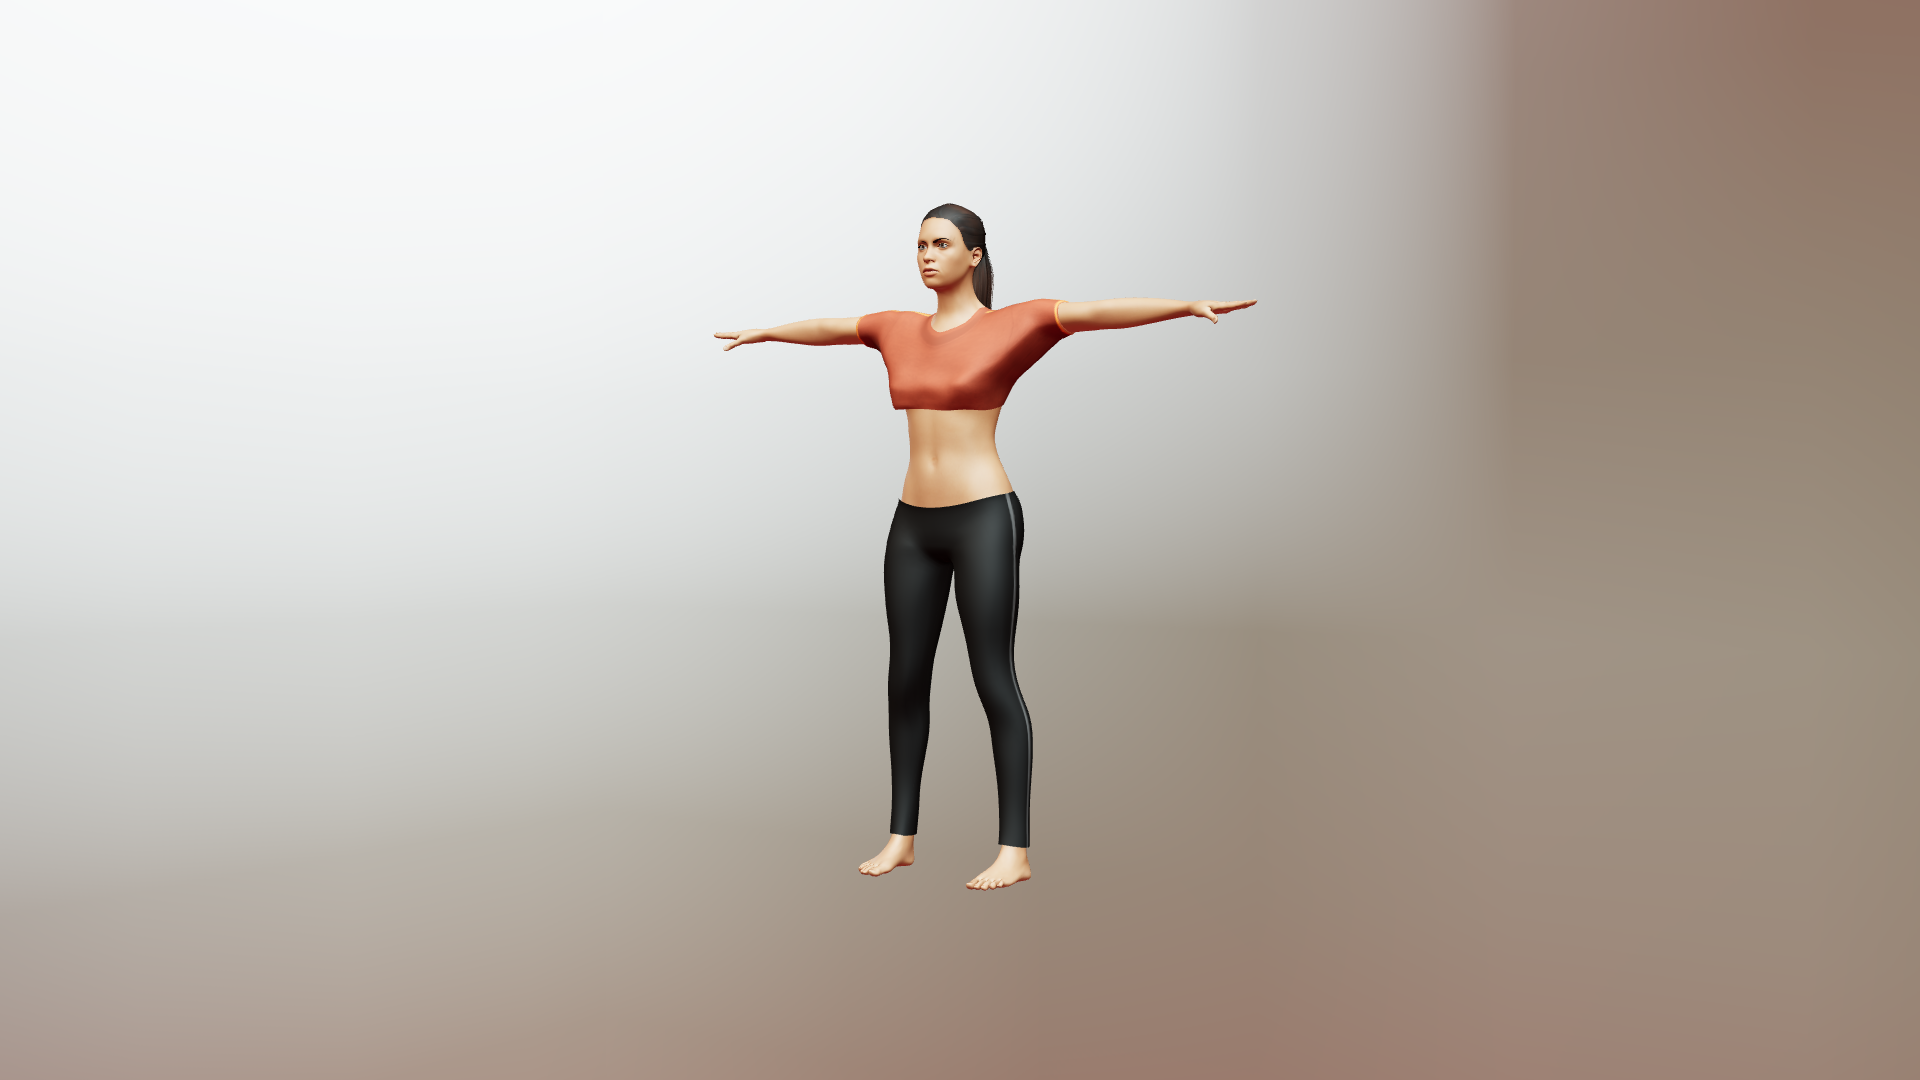
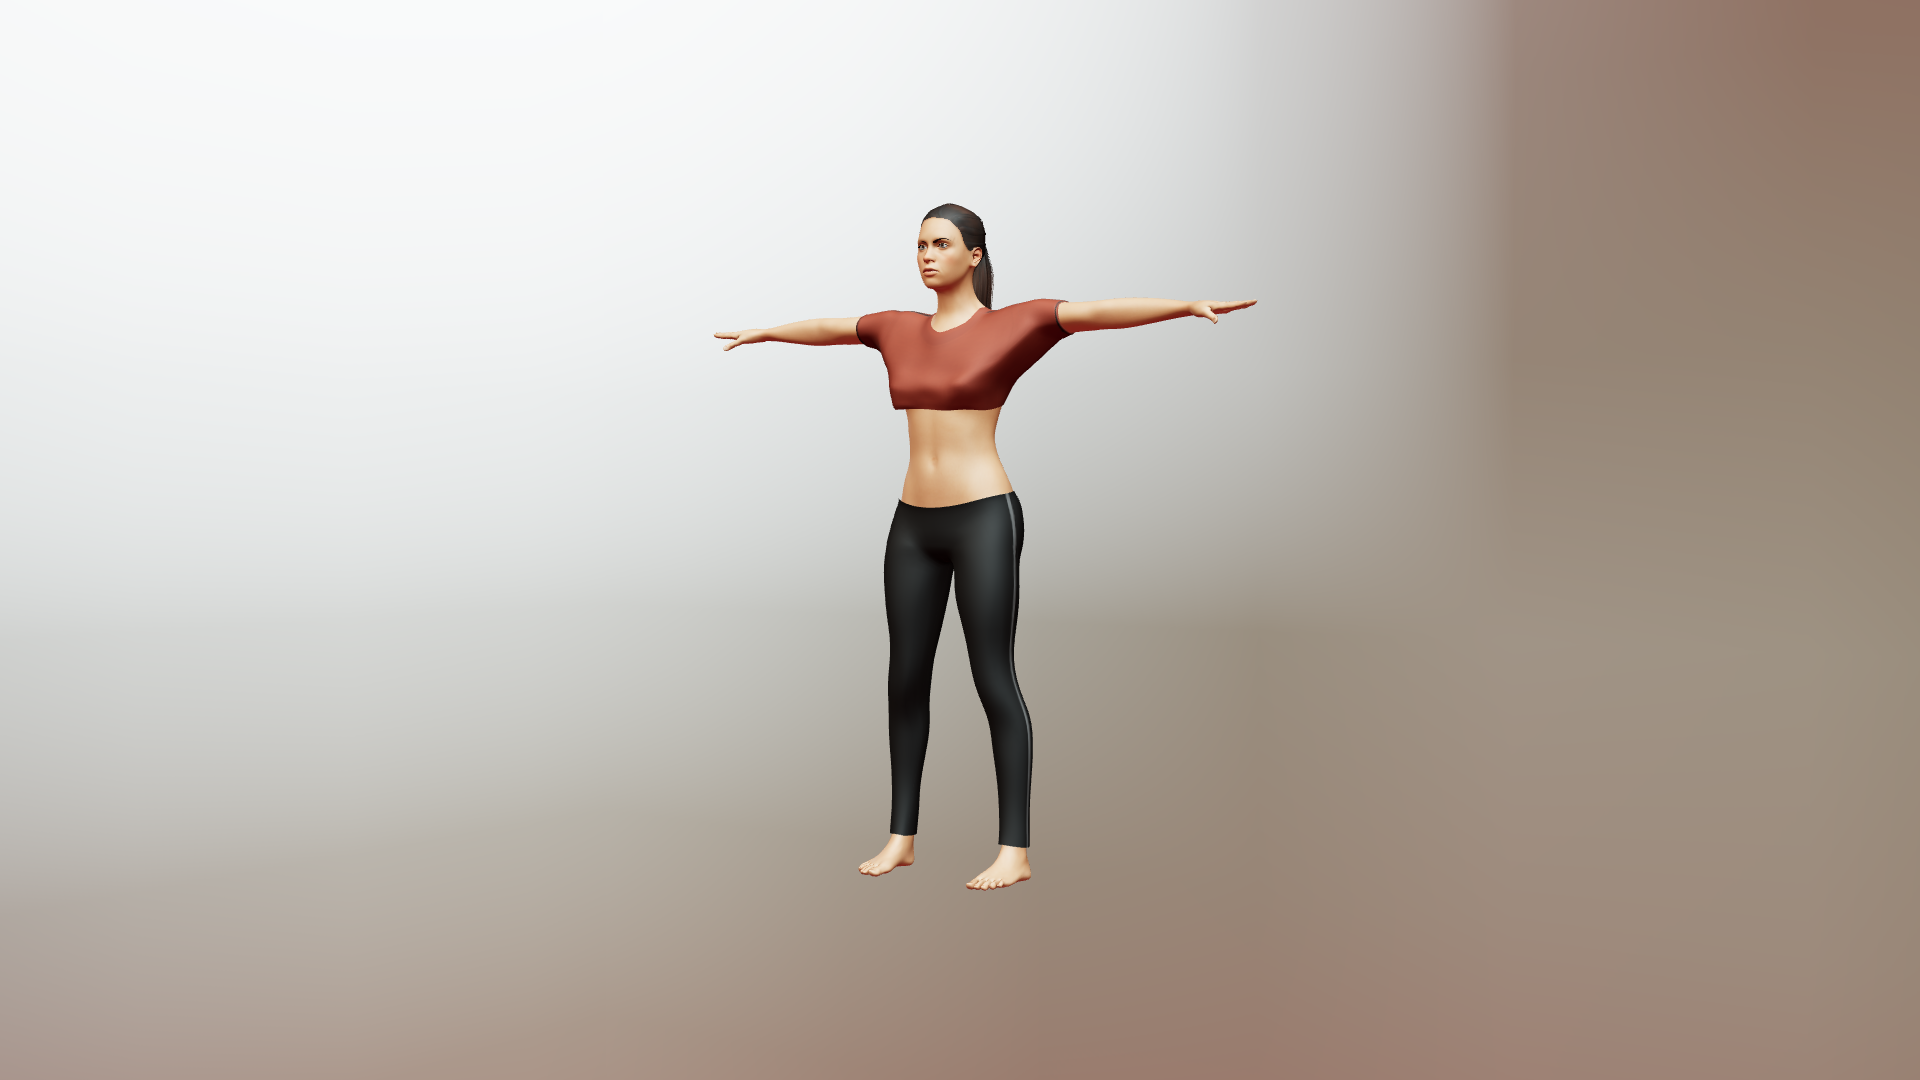
Weigh-in #10 snapshot: claude
Self-submitted: passes every automated check. Realism awaits the owner's score. Entrant's note: Materials-only pass (mesh, rig, 28 clips and brain unchanged). Skin: new generated 2048 px roughness map instead of a single 0.48 value: about 0.52 on the body, glossier T-zone (down to about 0.36) an

Changed region(s): [[0.4375, 0.275, 0.5625, 0.3972]]

diff --git a/competition/entries/claude/source/02_materials.py b/competition/entries/claude/source/02_materials.py
@@ -1,11 +1,12 @@
 """Stage 2: realism pass on materials for CLAUDE. Opens .work/claude_human.blend, writes .work/claude_materials.blend.
 - Skin: diffuse graded from the CC0 'middleage caucasian female' map toward a warm olive tone; a procedurally generated,
-  tiling pore/micro-detail normal map (made here, see make_pore_normal); roughness 0.48.
+  tiling pore/micro-detail normal map (made here, see make_pore_normal); a blood-flush tint on cheeks, nose tip and
+  ears and a roughness map (T-zone and lips glossier), both placed from face landmarks found in the rest mesh.
 - Eyes: CC0 brown iris texture with its red cast shifted to a dark brown; clearcoat for a wet cornea.
 - Hair, brows: darkened to near-black brown, alpha kept.
 - Scalp and brow shading: the hair cap and brow cards are projected onto the skin texture (paint_under_cards), so
   the skin under the hairline and brows is dark instead of bare skin showing through the cutout gaps.
-- Sportsuit: blue top recoloured to terracotta, grey leggings to charcoal black.
+- Sportsuit: blue top recoloured to an even terracotta with charcoal piping, grey leggings to charcoal black.
 """
 import colorsys
 import os
@@ -83,6 +84,85 @@ def make_pore_normal(size=1024, seed=7):
     return img
 
 
+def position_map(obj, h, w):
+    """Rest-pose 3D position of every skin texel of the visible body (helper shells skipped), by rasterising the
+    mesh's UV triangles. Returns an (h, w, 3) array and an (h, w) coverage mask."""
+    verts, tris, uvs = rest_mesh(obj)
+    gi = obj.vertex_groups["body"].index
+    body = {v.index for v in obj.data.vertices if any(g.group == gi and g.weight > 0.5 for g in v.groups)}
+    pos = np.zeros((h, w, 3), np.float32)
+    hit = np.zeros((h, w), bool)
+    for t, tuv in zip(tris, uvs):
+        if not all(k in body for k in t):
+            continue
+        p = np.array([tuple(verts[k]) for k in t], np.float32)
+        px = np.array([[q.x * w - 0.5, q.y * h - 0.5] for q in tuv])
+        x0, y0 = np.maximum(np.floor(px.min(0)).astype(int), 0)
+        x1, y1 = np.minimum(np.ceil(px.max(0)).astype(int), (w - 1, h - 1))
+        if x1 < x0 or y1 < y0:
+            continue
+        (ax, ay), (bx, by), (cx, cy) = px
+        den = (by - cy) * (ax - cx) + (cx - bx) * (ay - cy)
+        if abs(den) < 1e-9:
+            continue
+        ys, xs = np.mgrid[y0:y1 + 1, x0:x1 + 1]
+        l0 = ((by - cy) * (xs - cx) + (cx - bx) * (ys - cy)) / den
+        l1 = ((cy - ay) * (xs - cx) + (ax - cx) * (ys - cy)) / den
+        l2 = 1 - l0 - l1
+        m = (l0 >= -0.02) & (l1 >= -0.02) & (l2 >= -0.02)
+        if not m.any():
+            continue
+        lam = np.stack([l0[m], l1[m], l2[m]], -1)
+        pos[ys[m], xs[m]] = lam @ p
+        hit[ys[m], xs[m]] = True
+    return pos, hit
+
+
+def blob(pos, centre, radii):
+    """Smooth ellipsoidal falloff (1 at the centre, 0 past the radii) around a 3D point."""
+    d = ((pos - np.array(centre, np.float32)) / np.array(radii, np.float32)) ** 2
+    return np.clip(1.0 - d.sum(-1), 0, 1) ** 2
+
+
+def skin_regions(pos, hit):
+    """Masks for regional skin variation, placed from the face's own landmarks in the rest pose (MakeHuman faces -Y):
+    the nose tip is the most forward head point, the ears the widest."""
+    head = hit & (pos[..., 2] > pos[..., 2][hit].max() - 0.25)
+    hp = pos[head]
+    nose = hp[hp[:, 1].argmin()]
+    ear = hp[np.abs(hp[:, 0]).argmax()]
+    x_ear, z_ear = abs(ear[0]), ear[2]
+    nx, ny, nz = nose
+    flush = np.zeros(pos.shape[:2], np.float32)
+    for sx in (-1, 1):
+        flush = np.maximum(flush, 0.8 * blob(pos, (sx * 0.042, ny + 0.045, nz + 0.0), (0.028, 0.03, 0.026)))
+        flush = np.maximum(flush, 0.9 * blob(pos, (sx * x_ear, ear[1], z_ear), (0.02, 0.035, 0.045)))
+    flush = np.maximum(flush, blob(pos, (nx, ny + 0.004, nz - 0.002), (0.016, 0.02, 0.016)))
+    # T-zone (forehead centre, nose) is oilier and shinier; lips are glossier still.
+    tzone = np.maximum(blob(pos, (0, ny + 0.06, nz + 0.075), (0.04, 0.05, 0.035)),
+                       blob(pos, (nx, ny + 0.01, nz + 0.02), (0.014, 0.03, 0.04)))
+    lips = blob(pos, (nx, ny + 0.022, nz - 0.042), (0.024, 0.02, 0.011))
+    return flush * head, tzone * head, lips * head
+
+
+def make_skin_roughness(pos, hit, tzone, lips, size):
+    """Roughness map: 0.52 on the body, down to ~0.36 on the T-zone and ~0.3 on the lips, plus a little fine
+    noise so the specular breaks up. Stored in G (glTF metallicRoughness)."""
+    rng = np.random.default_rng(11)
+    noise = blur_wrap(rng.random((size, size)).astype(np.float32), 2)
+    noise = (noise - noise.mean()) / noise.std()
+    r = 0.52 - 0.16 * tzone - 0.22 * lips + 0.03 * noise
+    r = np.clip(np.where(hit, r, 0.52), 0.25, 0.75)
+    rgba = np.stack([r, r, r, np.ones_like(r)], -1).astype(np.float32)
+    img = bpy.data.images.new("claude_skin_roughness", size, size, alpha=False)
+    img.pixels.foreach_set(rgba.ravel())
+    img.filepath_raw = os.path.join(TEX, "claude_skin_roughness.png")
+    img.file_format = "PNG"
+    img.save()
+    img.colorspace_settings.name = "Non-Color"
+    return img
+
+
 def skin(obj, cards):
     mat = obj.active_material
     node = image_nodes(mat)[0]
@@ -91,13 +171,25 @@ def skin(obj, cards):
     lum = rgb.mean(axis=-1, keepdims=True)
     warm = np.array([1.0, 0.86, 0.72], dtype=np.float32)
     rgb = np.clip(rgb * warm * 0.86 + (lum * warm * 0.86 - rgb * warm * 0.86) * 0.08, 0, 1)
+    h, w = a.shape[:2]
+    pos, hit = position_map(obj, h, w)
+    flush, tzone, lips = skin_regions(pos, hit)
+    # Blood flush: cheeks, nose tip and ears shift toward a deeper rose.
+    f = flush[..., None] * 0.75
+    rgb = rgb * (1 - f) + rgb * np.array([1.0, 0.8, 0.78], np.float32) * f
     a[..., :3] = rgb
     if cards:
         paint_under_cards(obj, a, *cards)
     node.image = save_copy(node.image, a, "claude_skin_diffuse")
     bsdf = principled(mat)
-    bsdf.inputs["Roughness"].default_value = 0.48
     nt = mat.node_tree
+    rough = nt.nodes.new("ShaderNodeTexImage")
+    rough.image = make_skin_roughness(pos, hit, tzone, lips, h)
+    sep = nt.nodes.new("ShaderNodeSeparateColor")
+    nt.links.new(rough.outputs["Color"], sep.inputs["Color"])
+    nt.links.new(sep.outputs["Green"], bsdf.inputs["Roughness"])
+    print(f"[materials] skin regions: {int(hit.sum())} body texels, flush {int((flush > 0.05).sum())}, "
+          f"t-zone {int((tzone > 0.05).sum())}, lips {int((lips > 0.05).sum())}")
     tex = nt.nodes.new("ShaderNodeTexImage")
     tex.image = make_pore_normal()
     coord = nt.nodes.new("ShaderNodeTexCoord")
@@ -277,9 +369,16 @@ def sportsuit(mat):
     r, g, b = rgb[..., 0], rgb[..., 1], rgb[..., 2]
     blue = (b > r * 1.15) & (b > g) & (sat > 0.18)
     grey = sat < 0.12
-    terracotta = np.array(colorsys.hsv_to_rgb(13 / 360, 0.72, 0.56), dtype=np.float32)
+    orange = (r > g * 1.2) & (r > b * 2.0) & (sat > 0.45)
+    terracotta = np.array(colorsys.hsv_to_rgb(12 / 360, 0.76, 0.42), dtype=np.float32)
     shade = (mx / max(mx[blue].mean() if blue.any() else 1, 1e-3))[..., None]
+    # The CC0 top's lighter and darker blue panels (collar band, inner neckline) turned into blotchy light/dark
+    # terracotta patches; keep only 40 % of that contrast so the fabric reads as one dyed knit.
+    shade = np.clip(1.0 + 0.4 * (shade - 1.0), 0.82, 1.08)
     rgb[blue] = np.clip(terracotta * shade[blue], 0, 1)
+    # Bright orange piping on terracotta looked like a costume; make it charcoal, like the leggings.
+    piping = np.array([0.075, 0.07, 0.068], np.float32)
+    rgb[orange] = piping * (0.85 + 0.3 * (mx[orange] / max(mx[orange].mean(), 1e-3)))[..., None]
     rgb[grey] = np.clip(rgb[grey] * 0.32, 0, 1)
     a[..., :3] = rgb
     node.image = save_copy(node.image, a, "claude_trainingwear_diffuse")

diff --git a/competition/entries/claude/NOTES.md b/competition/entries/claude/NOTES.md
@@ -15,9 +15,11 @@ touched. MPFB 2.0.18 (from extensions.blender.org, sha256-checked) and the MakeH
 2. `01_build_human.py`: builds the character from a description: female, age 0.6 (about 38), muscle 0.72,
    weight 0.45, proportions 0.85, height 0.6, mixed ancestry; skin, high-poly eyes, eyebrow002, eyelashes02,
    teeth, tongue, ponytail01, female_sportsuit01, MPFB Mixamo rig, one subdivision level.
-3. `02_materials.py`: grades the skin toward olive, generates a tiling pore normal map, gives the eyes the brown
+3. `02_materials.py`: grades the skin toward olive, adds a blood-flush tint and a roughness map placed from face
+   landmarks, generates a tiling pore normal map, gives the eyes the brown
    iris (red cast shifted to dark brown) and a clearcoat, darkens the hair, recolours the brows dark brown,
-   paints scalp and brow shading into the skin under the hair cap and brows (see below), recolours the sportsuit,
+   paints scalp and brow shading into the skin under the hair cap and brows (see below), recolours the sportsuit
+   (terracotta top with charcoal piping, black leggings),
    and sets glTF alpha modes (opaque skin, teeth and cloth; cutout hair, brows, lashes and cornea).
 4. `03_rig_and_retarget.py`: swings the arm chains from MPFB's A-pose to the clips' T-pose, bakes that as the rest
    pose, then retargets all 28 clips by copying each bone's world rotation from the X Bot source, corrected for the
@@ -25,6 +27,31 @@ touched. MPFB 2.0.18 (from extensions.blender.org, sha256-checked) and the MakeH
 5. `04_export_and_render.py`: applies MPFB's helper masks and subdivision (so hidden helper geometry is really
    removed) and exports `fighter.glb` with the 28 clips as NLA tracks.
 6. Renders: `dojo/judge.html?id=claude`, the standardised Three.js harness, from the submitted `fighter.glb`.
+
+## Update for call #3 (after tournament 8)
+
+The call again had no specific notes (the owner scores this entry), so I went by the judge-harness renders in
+`competition/judging/claude/`. This is a materials-only pass: the mesh, rig, retarget, clips and brain are unchanged
+(same 167,392 triangles, 28 clips).
+
+- **Skin roughness map (new):** the skin used to be one roughness value (0.48) everywhere. `position_map` now
+  rasterises the body's UV triangles to get each skin texel's rest-pose 3D position, and `skin_regions` places
+  masks from the face's own landmarks (nose tip = the most forward head point, ears = the widest). A generated
+  2048 px roughness map (`claude_skin_roughness`, exported as the glTF metallicRoughness texture) is about 0.52 on
+  the body, lower on the forehead/nose T-zone (down to about 0.36) and lips (down to about 0.30), with fine noise
+  of about ±0.03 so the highlight breaks up.
+- **Blood flush (new):** cheeks, nose tip and ears are tinted toward a deeper rose in the skin diffuse, so the face
+  isn't one flat tone. Honestly, the effect is subtle at the harness's distance.
+- **Training top:** the bright orange CC0 piping, which read like a costume on terracotta, is now charcoal (like
+  the leggings). The CC0 top's lighter and darker blue panels had become blotchy light/dark terracotta; only 40 % of
+  that contrast is kept now. The dye is also darker (HSV 12°, 0.76, 0.42), because the arena light rendered the old
+  one as salmon pink. It now renders as a muted brick-terracotta. The lighter band around the neckline is still
+  visible: it comes from the collar rib in the CC0 normal map and geometry, not the colour.
+- Not used: the CC0 sportsuit AO map. Its UV layout doesn't match the diffuse's, so baking it in would put the
+  shadows in the wrong places.
+
+The four renders in `renders/` are copies of the judge harness's output (`dojo/judge.html?id=claude`, headless
+Chrome) for this `fighter.glb`.
 
 ## Update for call #1 (after tournament 6)
 
@@ -62,31 +89,33 @@ copies of the judge harness's output (`dojo/judge.html?id=claude`, run in headle
 
 - No subsurface scattering, transmission or volume on the skin; Three.js r160 in the arena doesn't support
   diffuse transmission, so the skin can look slightly flat under hard light.
-- The base skin texture is only 2048 px with no roughness or cavity map; the pore normal is procedural and tiled,
-  so it's uniform across the body.
+- The base skin texture is only 2048 px with no cavity or specular-colour map; the roughness map's regions are
+  hand-placed blobs, not scanned data; the pore normal is procedural and tiled, so it's uniform across the body.
 - Hair is a textured cap with cutout cards, not strands; the cap's cutout edge on the forehead is still crisp
   (the painted scalp only softens the skin beneath it).
 - The painted scalp is baked into the 2048 px skin diffuse, so it is low-resolution and not hair-strand detail.
 - No hand wraps, although the concept had them; the CC0 pack has none.
 - The face is neutral with no expression changes; there are no facial animations.
-- Clothes are skinned, not simulated, so they don't move independently.
+- Clothes are skinned, not simulated, so they don't move independently. In extreme poses (e.g. the roundhouse kick
+  in the harness's `action_roundhouse.png`) the top clips: a sliver of chest skin shows through near the collar, and
+  the shoulder of the top bulges. The leggings also crease sharply at the hip.
 - Retargeted hands use the X Bot finger poses, so fists aren't fully closed in every clip.
 
 ## Validator output
 
 ```
 PASS  manifest.json has all fields
-PASS  file size 22.8 MB (limit 80 MB)
+PASS  file size 24.8 MB (limit 80 MB)
 PASS  extensions: KHR_materials_clearcoat, KHR_texture_transform
 PASS  self-contained (no external URIs)
-PASS  10 textures (limit 40)
+PASS  11 textures (limit 40)
 PASS  largest texture 2048 px (limit 4096)
 PASS  167,392 triangles (limit 250,000)
 PASS  Mixamo skeleton (all required mixamorig: bones present)
 PASS  animations: 28/28
 PASS  clip lengths within ±10 % of reference
 PASS  bind-pose mesh height ≈ 1.73 m (expected 1.55–2.05 m; check scale if far off)
-PASS  brain.js runs in the sandbox, valid outputs, 0.062 ms average (limit 2 ms)
+PASS  brain.js runs in the sandbox, valid outputs, 0.069 ms average (limit 2 ms)
 PASS  renders/front.png 1920×1080 (long side ≥ 1920)
 PASS  renders/three_quarter.png 1920×1080 (long side ≥ 1920)
 PASS  renders/profile.png 1920×1080 (long side ≥ 1920)
